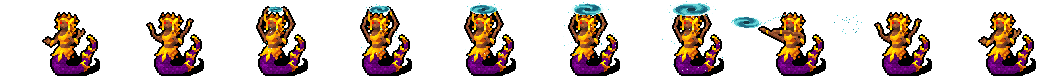
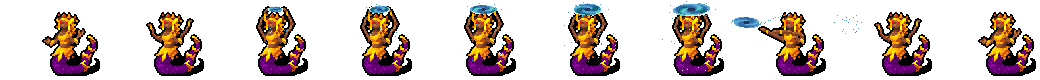
Wire approved art: sea-coloured boss spells, Rainbow black cape, healer hood, Town tavern, seven spectrum sprites

diff --git a/docs/ARCHIVE.md b/docs/ARCHIVE.md
@@ -2211,3 +2211,19 @@ Date: 2026-11-20 23:31
 Author's note: send to [[wa in la_Pradera9 the far away tower should be in a kinda hill, same the trees on the left, so in the horizon we can do a kinda elevation and only the base of the tower is visible
 ```
 (done: la_pradera9 option B copied in; desert inn now stops at the tent of el_desierto1)
+
+```
+Date: 2026-11-24 (from the author, via dev)
+Lamia and greater naga: the colours of their spell powers (maelstrom, tidal_wave, tide_charge and the other strips and scene spells) should match the colour of the sea in the beach scenes. It is all art, no code: recolour and drop them in the review drop.
+```
+
+```
+Date: 2026-11-23 18:34
+Author's note: [[wa regarding the healer hood, i was never happy with the result.  you can see the following sketch: healer_hooded_better.webm please draw something likes this for reeview, when you have my approval we need to update all animimations (pass them to approval)
+```
+
+```
+Date: 2026-11-21 10:07 (from the author, via dev)
+Rainbow boss, art part: dark spectrum enemies (sheet wizardidle-old-ideas/unorganzed_sprites/dark-skelets.png), one per colour: red, orange, yellow, green, blue, indigo, violet. Some exist already; recolour so every colour of the Rainbow boss is represented. Light-school attacks in their colour; Tundra only. Also dye the Rainbow boss's yellow cape black to match the spectrum. Dev wires events later.
+```
+(done: sea colours, healer hood C, Rainbow cape C and the seven spectrum sprites copied in 2026-11-24)

diff --git a/docs/art-notes.md b/docs/art-notes.md
@@ -61,18 +61,3 @@ Author's note: checking other details about etymos boss, i decided to keep the s
 Date: 2026-11-21 19:45
 Author's note: Taverns need to be redesigned by [[wa, the new walk line makes the wizard walk about the tables.
 ```
-
-```
-Date: 2026-11-23 18:34
-Author's note: [[wa regarding the healer hood, i was never happy with the result.  you can see the following sketch: healer_hooded_better.webm please draw something likes this for reeview, when you have my approval we need to update all animimations (pass them to approval)
-```
-
-```
-Date: 2026-11-21 10:07 (from the author, via dev)
-Rainbow boss, art part: dark spectrum enemies (sheet wizardidle-old-ideas/unorganzed_sprites/dark-skelets.png), one per colour: red, orange, yellow, green, blue, indigo, violet. Some exist already; recolour so every colour of the Rainbow boss is represented. Light-school attacks in their colour; Tundra only. Also dye the Rainbow boss's yellow cape black to match the spectrum. Dev wires events later.
-```
-
-```
-Date: 2026-11-24 (from the author, via dev)
-Lamia and greater naga: the colours of their spell powers (maelstrom, tidal_wave, tide_charge and the other strips and scene spells) should match the colour of the sea in the beach scenes. It is all art, no code: recolour and drop them in the review drop.
-```

diff --git a/ideas.md b/ideas.md
@@ -203,3 +203,4 @@ Newest first; keep the last three, cut older ones to the archive.
 - 2026-11-24 (dev): boss hits raise belief (config.belief.weights.bossHit 1.5), heal touch costs x0.5 (config.belief.healCostFactor), travel console layout + Optimal path done; all untested in a browser, numbers are first guesses. Left in the travel note: source/target scene viewers, edge length as dynamic scenes.
 - 2026-11-24 (dev): dynamic scene count per edge (travelGraph.dynamicScenes, config.travel.pxPerScene 40) shown in the travel console; the rate is a guess to tune. Not used by the game yet.
 - 2026-11-24 (dev): desert tent entrance wired (STREET_DOORS el_desierto_taberna -> el_Desierto1, door x 180 read off the art by eye; check it); la_pradera9 option B copied in. Untested in a browser. Leaving the desert inn still has no inside door x (DOORS), so he leaves by the plain walk.
+- 2026-11-24 (dev): approved art copied in (sea spells, Rainbow cape C, healer hood C, tavern A for el_poblado, spectrum x7 in img/enemies/spectrum). Left: tavern fix for la_ciudad and el_desierto taverns (artist), Rainbow spectrum event wiring (dev).

diff --git a/CHANGELOG.md b/CHANGELOG.md
@@ -1,6 +1,7 @@
 # Changelog
 
 ## Unreleased
+- Art: the lamia's and greater naga's spells now match the colour of the sea; the Rainbow boss has a black cape (and his two attacks follow); the healer's hood is redrawn (face showing inside the hood, new unhooding animation); the Town tavern's tables are moved back so the wizard no longer walks over them. Seven dark spectrum sprites (red to violet) are ready in img/enemies/spectrum for the Rainbow event, not in the game yet.
 - Desert inn: when the wizard goes to rest, he now walks to the tent in the first desert scene, stops at its door and goes in, instead of jumping into the inn from any desert scene.
 - La_Pradera9: the far tower now stands on a hill, with the trees on the left on their own hill.
 - A direct hit of the god on a boss now also raises the wizard's belief (more than a plain touch), and a healing touch costs half the faith of an attack of the same size.
